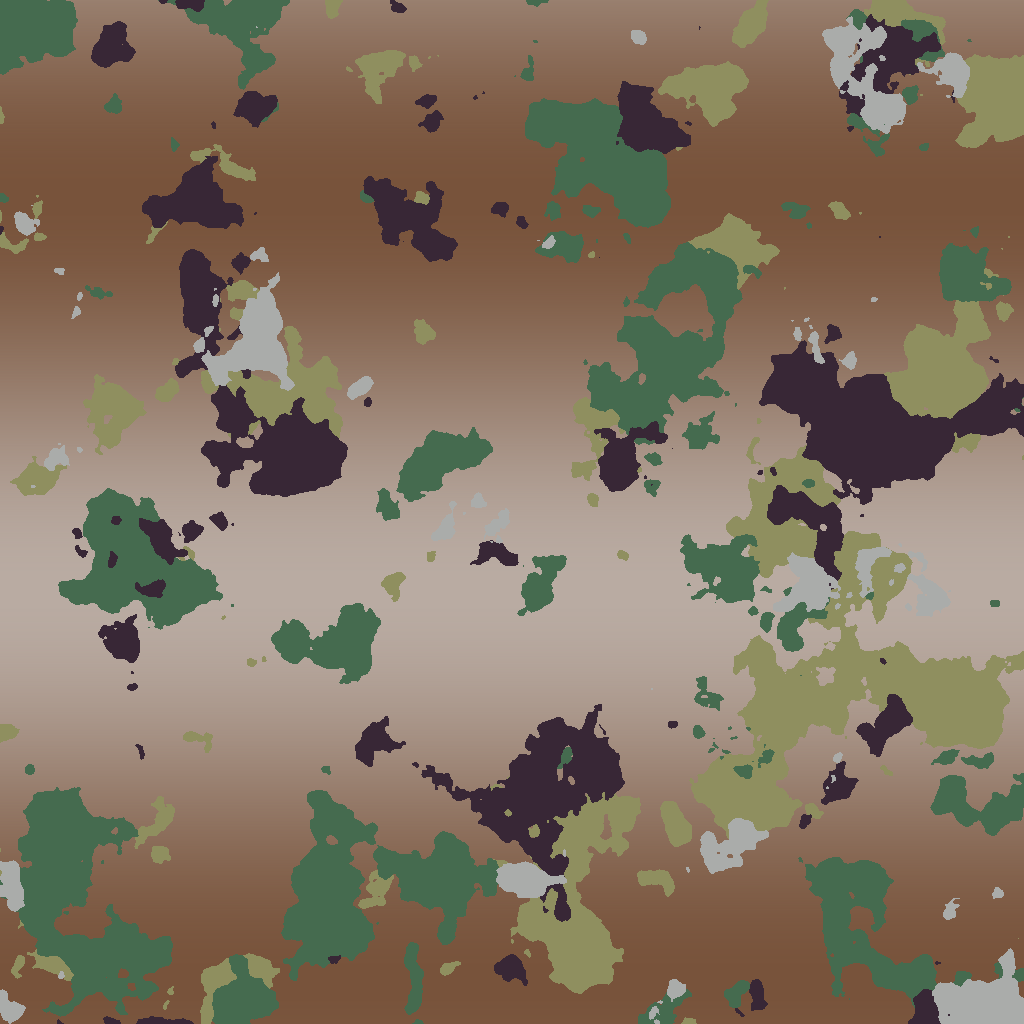
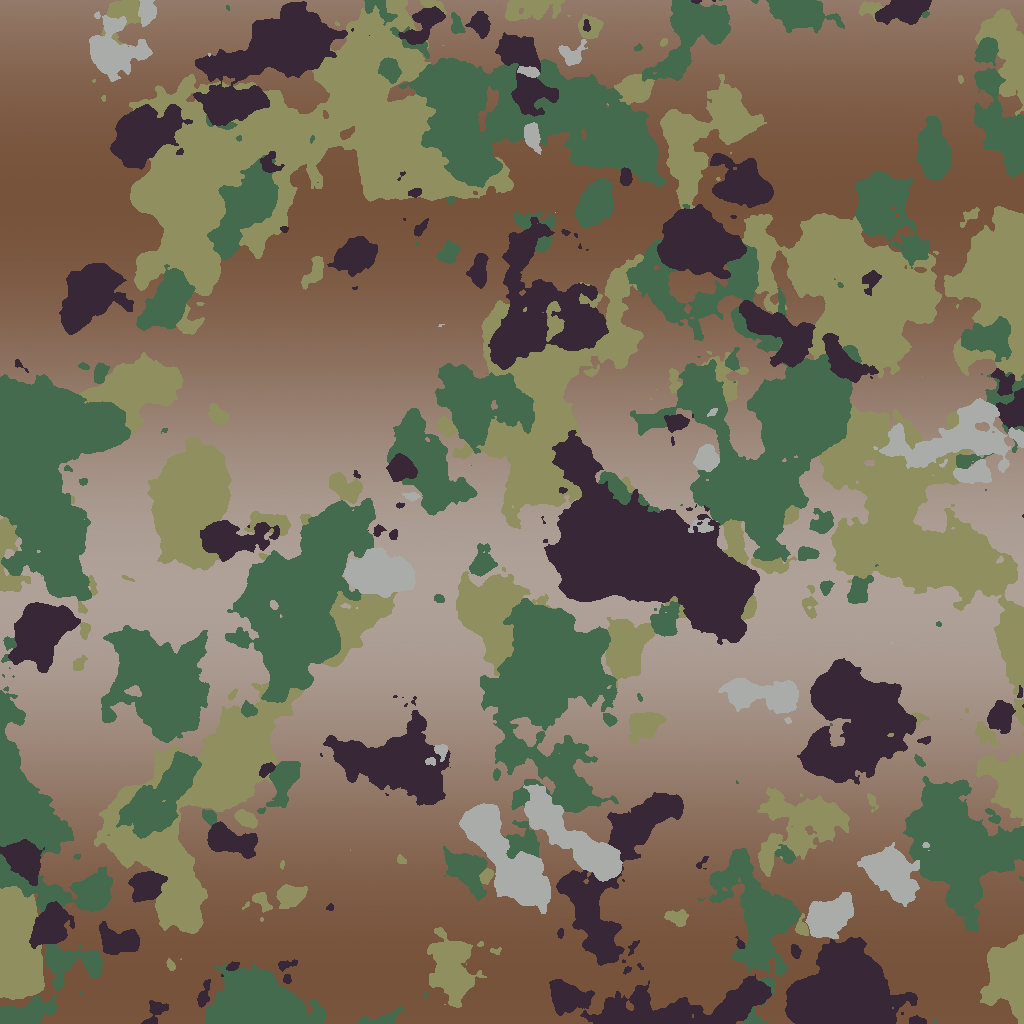
Signed-off-by: pyraetos <pyraetos@pyraetos.net>

diff --git a/src/net/pyraetos/pgenerate/ScorpionMap.java b/src/net/pyraetos/pgenerate/ScorpionMap.java
@@ -1,6 +1,7 @@
 package net.pyraetos.pgenerate;
 
 import java.awt.Color;
+import java.util.Random;
 
 import net.pyraetos.util.Sys;
 
@@ -11,13 +12,14 @@ public class ScorpionMap extends MultiLayerMap {
 	public static final Color OCP_GREEN = new Color(69, 107, 79);
 	public static final Color OCP_DARK_BROWN = new Color(56, 39, 54);
 	public static final Color OCP_GRAY = new Color(170, 172, 170);
+	public static final Random r = new Random();
 	
 	public ScorpionMap(int width, int height) {
-		super(width, height);
+		super(width, height, 4);
 	}
 
-	private int getBrownGradient(int x, int y){
-		double pB = Math.sin(.008*y)/2f +.5f;
+	private Color getBrownGradient(int x, int y){
+		double pB = Math.sin(.008*(((double)y) + r.nextDouble()))/2f +.5f;
 		int bR = (int)(121f * pB);
 		int bG = (int)(84f * pB);
 		int bB = (int)(60f * pB);
@@ -25,25 +27,19 @@ public class ScorpionMap extends MultiLayerMap {
 		int gR = (int)(176f * pG);
 		int gG = (int)(162f * pG);
 		int gB = (int)(153f * pG);
-		return new Color(bR+gR,bG+gG,bB+gB).getRGB();
+		return new Color(bR+gR,bG+gG,bB+gB);
 	}
 	
 	@Override
-	public void layer(int layer){
-		if(layer > 4) return;
-		System.out.println("Starting layer " + layer);
-		layer();
-		for (int i = 0; i < width; i++) {
-			for (int j = 0; j < height; j++) {
-				switch(layer){
-				case(0): pixels[i * height + j] = getBrownGradient(j, i); break;
-				case(1): if(pg.getValue(i, j) > .75) pixels[i * height + j] = OCP_LIGHT_GREEN.getRGB(); break;
-				case(2): if(pg.getValue(i, j) > 1) pixels[i * height + j] = OCP_GREEN.getRGB(); break;			
-				case(3): if(pg.getValue(i, j) > 1.35) pixels[i * height + j] = OCP_DARK_BROWN.getRGB(); break;			
-				case(4): if(pg.getValue(i, j) > 2) pixels[i * height + j] = OCP_GRAY.getRGB(); break;			
-				}
-			}
+	protected Color colorForLayer(int layer, int i, int j){
+		switch(layer){
+		case(0): return getBrownGradient(j, i);
+		case(1): if(pg.getValue(i, j) > .75) return OCP_LIGHT_GREEN;
+		case(2): if(pg.getValue(i, j) > 1) return OCP_GREEN;		
+		case(3): if(pg.getValue(i, j) > 1.35) return OCP_DARK_BROWN;		
+		case(4): if(pg.getValue(i, j) > 2) return OCP_GRAY;			
 		}
-		layer(++layer);
+		return null;
 	}
+	
 }

diff --git a/src/net/pyraetos/pgenerate/MultiLayerMap.java b/src/net/pyraetos/pgenerate/MultiLayerMap.java
@@ -18,11 +18,22 @@ public abstract class MultiLayerMap extends BufferedImage{
 	protected int[] pixels;
 	protected static AtomicInteger done = new AtomicInteger(0);
 	
-	public static final int SIDE = 1024;
-	public static final int INC = 64;
+	protected int side = 1024;
+	protected int inc = 64;
+	protected int layercutoff;
 	
-	public MultiLayerMap(int width, int height){
+	/**
+	 * Not tested with width != height
+	 * @param width
+	 * @param height
+	 */
+	public MultiLayerMap(int width, int height, int toplayer){
 		super(width, height, BufferedImage.TYPE_INT_RGB);
+		layercutoff = toplayer;
+		if(width == height){
+			side = width;
+			inc = width / 16;
+		}
 		this.pg = null;
 		this.width = width;
 		this.height = height;
@@ -59,8 +70,8 @@ public abstract class MultiLayerMap extends BufferedImage{
 			this.n = start;
 		}
 		public void run(){
-			for(int i = n; i < n + INC; i++){
-				for(int j = 0; j < SIDE; j++){
+			for(int i = n; i < n + inc; i++){
+				for(int j = 0; j < side; j++){
 					pg.generate(i, j);
 				}
 			}
@@ -68,21 +79,31 @@ public abstract class MultiLayerMap extends BufferedImage{
 		}
 	}
 	
-	protected void layer(){
+	protected void layer(int layer){
+		if(layer > layercutoff) return;
+		System.out.println("Starting layer " + layer);
 		pg = new PGenerate(width, height);
 		pg.setInterpolation(PGenerate.BICUBIC);
 		done.set(0);
-		for(int n = 0; n < SIDE; n += INC){
+		for(int n = 0; n < side; n += inc){
 			Sys.thread(new DivideNConquer(n));
 		}
-		while(done.get() != SIDE / INC){
+		while(done.get() != side / inc){
 			try {
 				Thread.sleep(50);
 			} catch (InterruptedException e) {
 				e.printStackTrace();
 			}
 		}
+		for (int i = 0; i < width; i++) {
+			for (int j = 0; j < height; j++) {
+				Color c = colorForLayer(layer, i, j);
+				if(c != null)
+					pixels[i * height + j] = c.getRGB();
+			}
+		}
+		layer(++layer);
 	}
-	
-	public abstract void layer(int layer);
+
+	protected abstract Color colorForLayer(int layer, int i, int j);
 }
